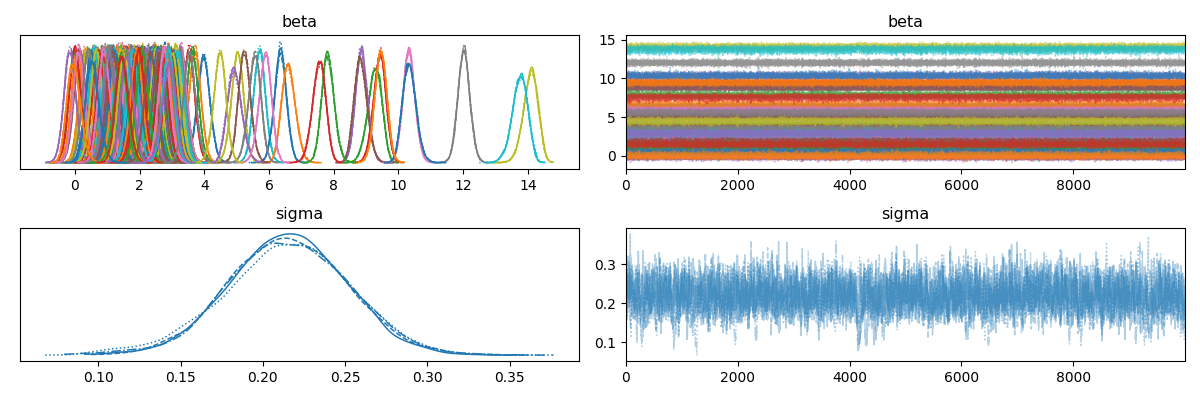
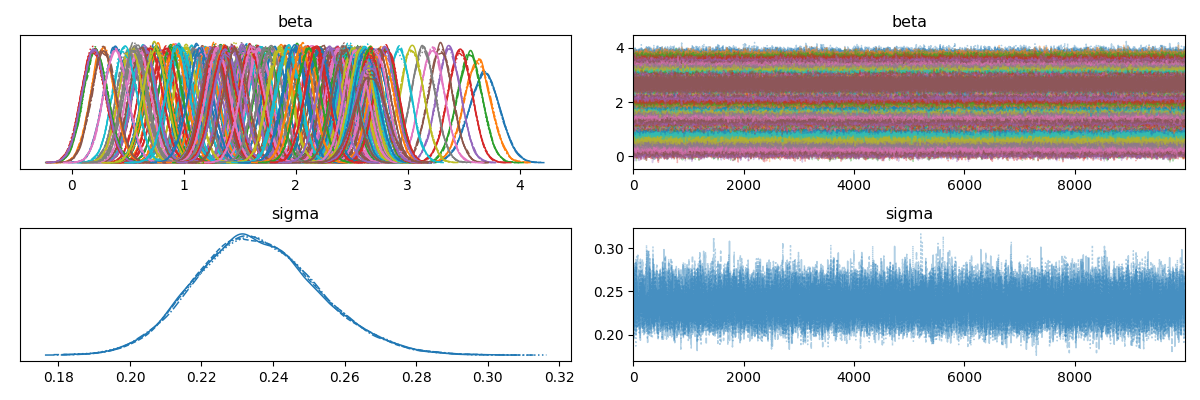
mcmc oos

diff --git a/src/bayesian_dlm_mcmc.py b/src/bayesian_dlm_mcmc.py
@@ -2,19 +2,31 @@ import pymc as pm
 import arviz as az
 import matplotlib.pyplot as plt
 import numpy as np
+from src.utils import train_test_split_time_series  # your utility for splitting
 
-def run_dlm_pymc(df, target_col):
-    y = df[target_col].dropna()
+def run_dlm_pymc(df, target_col, train_start, train_end, test_start, test_end):
+    # Split data into train/test using your utility
+    _, y_train, _, y_test = train_test_split_time_series(
+        df, train_start, train_end, test_start, test_end, target_col
+    )
+    
+    # Fill missing values in training target if any (or interpolate)
+    y = y_train.copy()
+    y = y.fillna(method='ffill').fillna(method='bfill')  # forward fill then backfill if needed
+
     T = len(y)
 
     with pm.Model() as dlm_model:
         sigma = pm.Exponential("sigma", 1.0)
-        beta = pm.GaussianRandomWalk("beta", sigma=0.5, shape=T)
+        # Use smaller sigma for better sampler stability
+        beta = pm.GaussianRandomWalk("beta", sigma=0.1, shape=T)
         y_obs = pm.Normal("y_obs", mu=beta, sigma=sigma, observed=y.values)
 
         trace = pm.sample(
-            draws=10000, tune=1500, target_accept=0.99, random_seed=42
+            draws=10000, tune=3000, target_accept=0.99, random_seed=42, max_treedepth=15
         )
+    
+    # Diagnostic plots
     az.plot_pair(trace, var_names=["beta", "sigma"], kind="kde", divergences=True)
     plt.tight_layout()
     plt.savefig("results/pymc_dlm_pairplot.png")
@@ -25,23 +37,25 @@ def run_dlm_pymc(df, target_col):
     plt.savefig("results/pymc_dlm_trace.png")
     plt.close()
 
-    # Extract posterior mean for beta
-    # Convert to numpy to avoid pandas multidim indexing issues
+    # Posterior mean estimate of beta
     mean_beta = trace.posterior["beta"].mean(dim=("chain", "draw")).values.flatten()
 
-    # Ensure no NaNs/Infs in mean_beta before plotting
     if not np.all(np.isfinite(mean_beta)):
         print("Warning: Non-finite values in mean_beta. Check model convergence.")
         mean_beta = np.nan_to_num(mean_beta, nan=0.0, posinf=0.0, neginf=0.0)
 
+    # Plot training observed vs filtered beta, plus test observed (no forecast)
     plt.figure(figsize=(10, 4))
-    plt.plot(y.index.to_numpy(), y.to_numpy(), label="Observed")
-    plt.plot(y.index.to_numpy(), mean_beta, label="Filtered βₜ", linestyle="--")
-    plt.title("DLM (PyMC) Forecast vs Observed")
+    plt.plot(y.index.to_numpy(), y.values, label="Observed (Train)")
+    plt.plot(y.index.to_numpy(), mean_beta, label="Filtered βₜ (Train)", linestyle="--")
+    plt.plot(y_test.index.to_numpy(), y_test.values, label="Observed (Test)", alpha=0.7)
+    plt.title("DLM (PyMC) Train Observed and Filtered")
     plt.legend()
     plt.tight_layout()
-    plt.savefig("results/pymc_dlm_forecast.png")
+    plt.savefig("results/pymc_dlm_train_forecast.png")
     plt.close()
 
-    rmse = np.sqrt(np.mean((mean_beta - y.values)**2))
+    # Compute RMSE on train data only (since no prediction on test)
+    rmse = np.sqrt(np.mean((mean_beta - y.values) ** 2))
+    
     return trace, rmse

diff --git a/main.py b/main.py
@@ -73,7 +73,15 @@ for model_name, model_desc in main_pbar:
             _, rmse = run_mlp(df, target_col)
             
         elif model_name == "Bayesian DLM (MCMC)":
-            _, rmse = run_dlm_pymc(df, target_col)
+            _, rmse = run_dlm_pymc(
+                df,
+                target_col,
+                train_start="2001-12-31",
+                train_end="2019-12-31",
+                test_start="2020-01-01",
+                test_end="2023-12-31"
+            )
+
             
         elif model_name == "Bayesian DLM (SMC)":
             _, rmse = run_dlm_numpyro(
